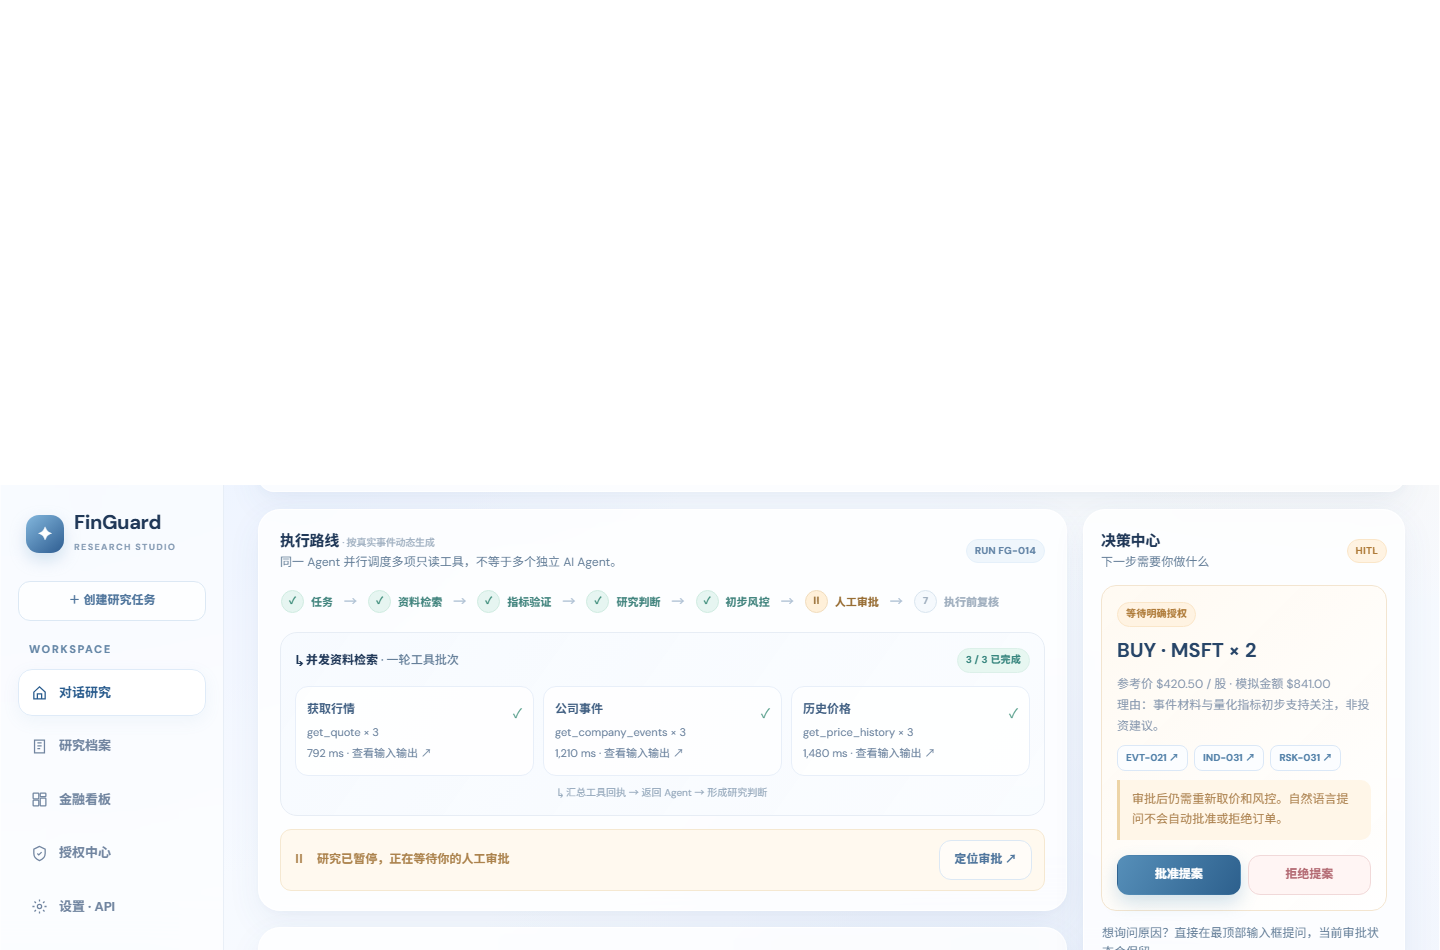
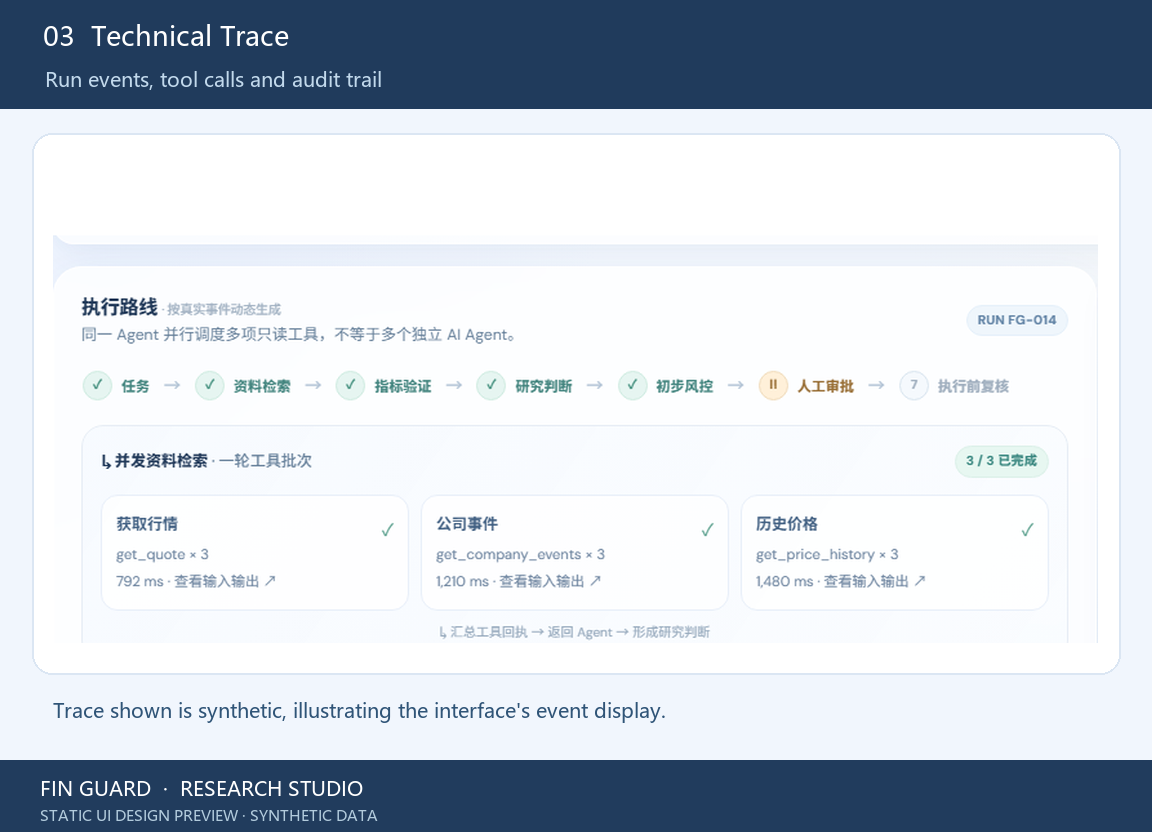
Fix cropped Trace scene in demo walkthrough

diff --git a/README.md b/README.md
@@ -17,7 +17,7 @@ FinGuard is a Python prototype exploring how AI can carry out a multi-step inves
 
 ![FinGuard static UI walkthrough — workspace, trace, dossier, market dashboard and authorization preview](docs/media/ui-walkthrough.gif)
 
-The GIF records actual navigation through the static interface, **not a recording of a real backend/LLM run**. The Authorization Center / Auto Paper screens are future-design previews, disabled in the current prototype.
+This 16-second walkthrough combines **static-interactive UI screenshots and focused crops** to show the complete execution route, human-approval panel and technical Trace in separate, readable frames. It is **not a recording of a real backend/LLM run**. The Authorization Center / Auto Paper screens are future-design previews, disabled in the current prototype.
 
 </details>
 
